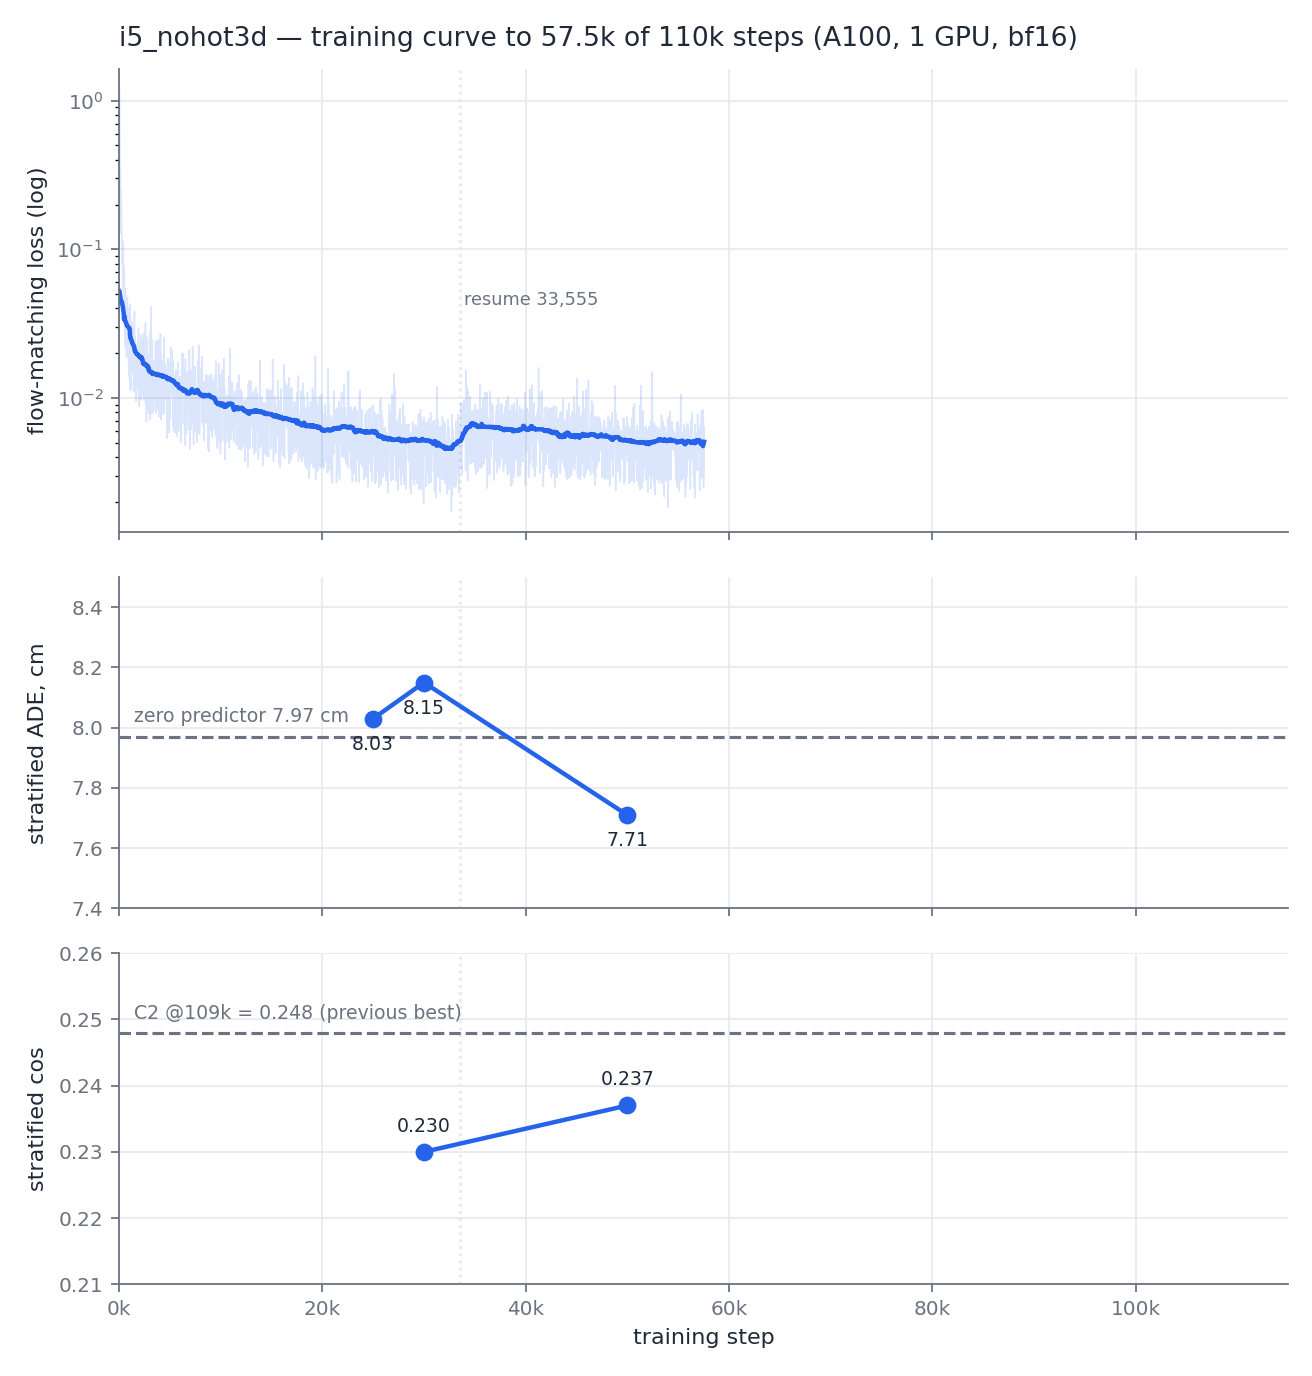
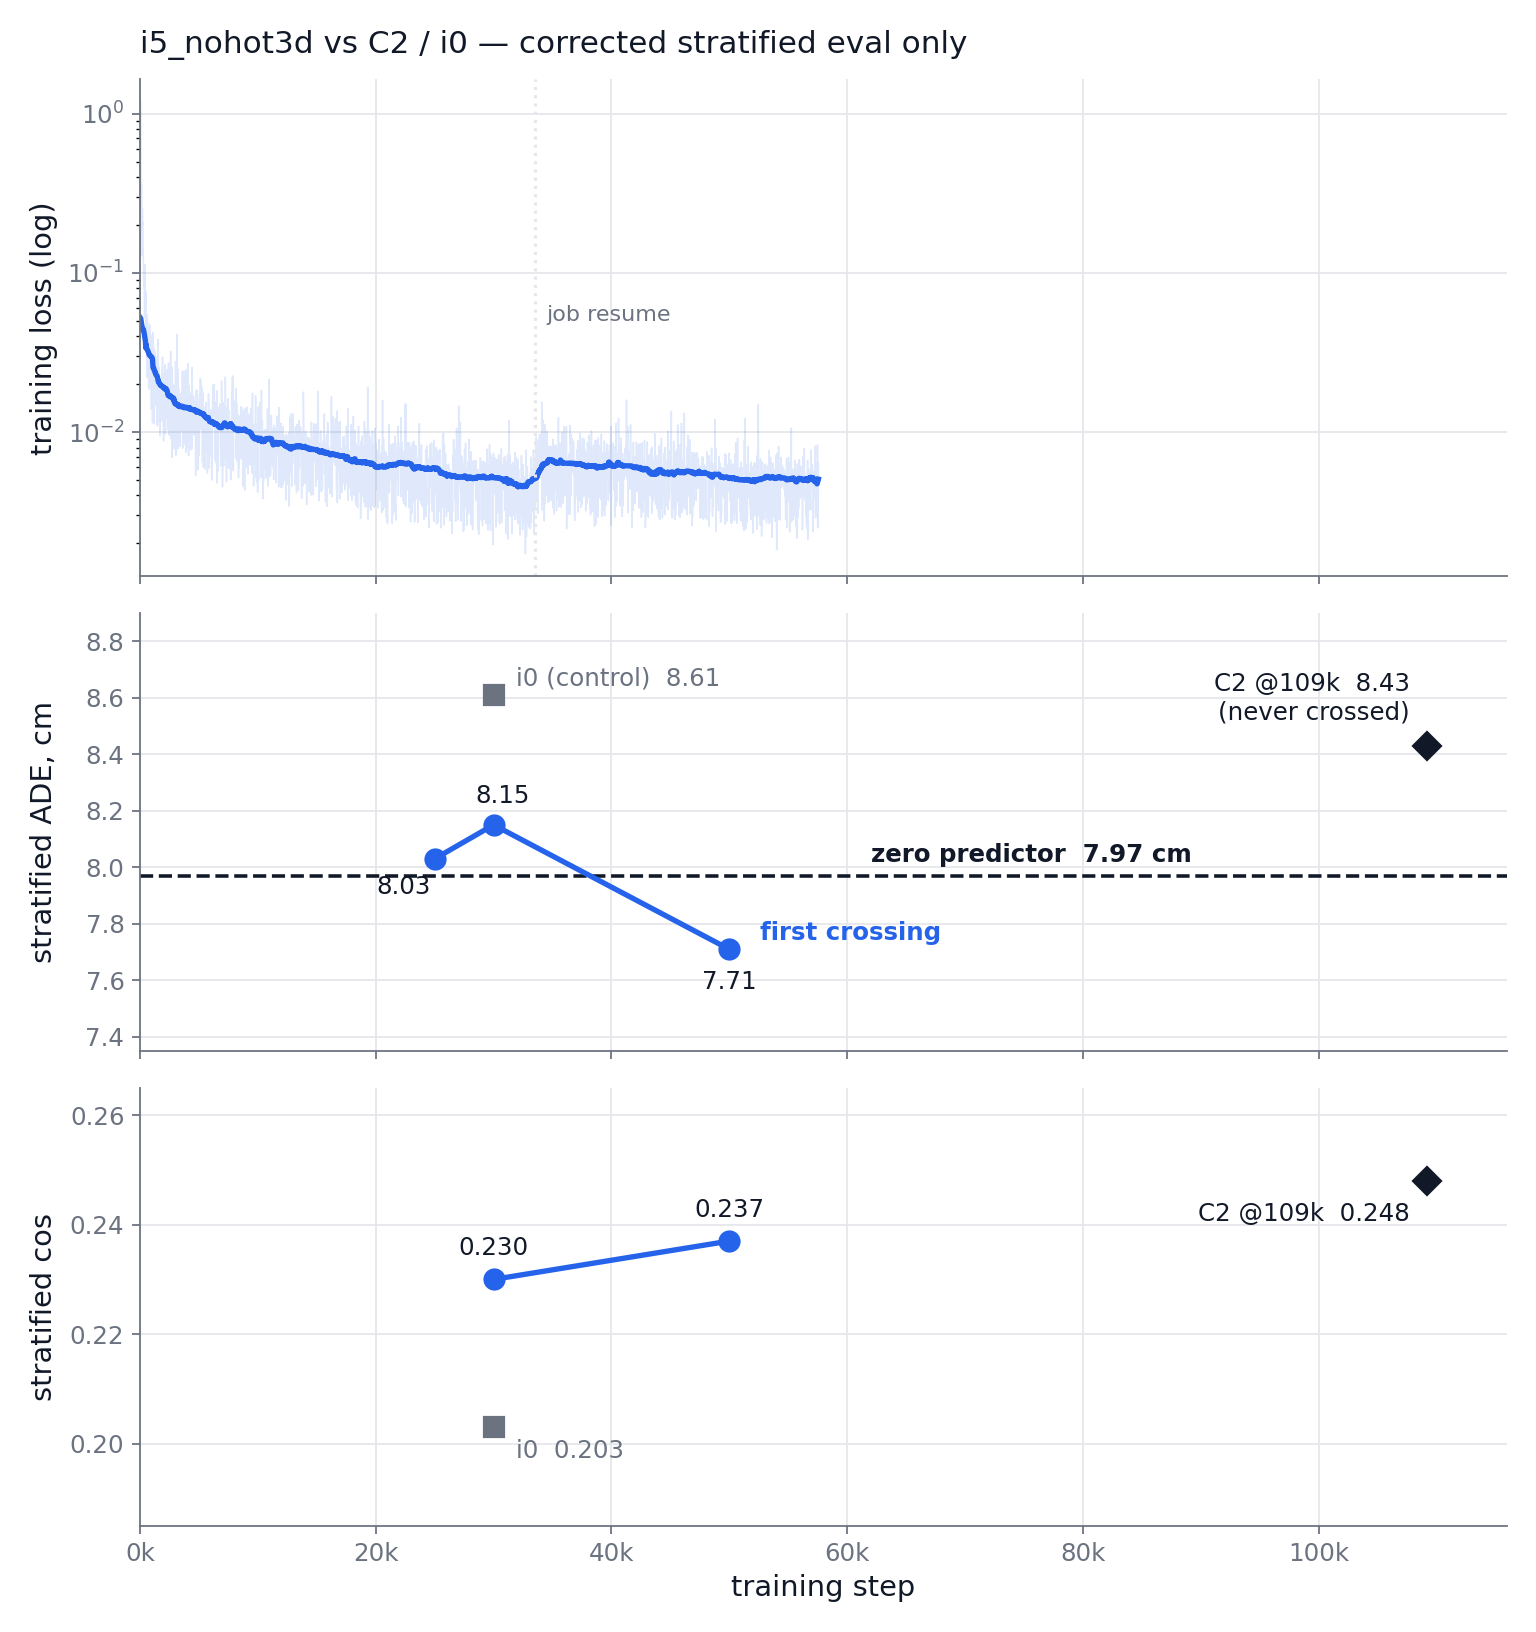
3D-WAM deck #9: full training-config slide, C2-vs-i5 rollout gallery, curve with C2/i0 references, bigger table fonts, chain + GR-1 closed-loop diagrams on the actions slide

diff --git a/experiments/3d-wam/decks/2026-08-31-scaling-plan/index.html b/experiments/3d-wam/decks/2026-08-31-scaling-plan/index.html
@@ -14,8 +14,8 @@
 <link rel="stylesheet" href="/experiments/assets/deck.css">
 <script src="/experiments/assets/deck.js" defer></script>
 <style>
-table.num{border-collapse:collapse;font-size:.8em;width:100%}
-table.num th,table.num td{border-bottom:1px solid var(--rule,#8884);padding:.18em .5em;text-align:right}
+table.num{border-collapse:collapse;font-size:.95em;width:100%}
+table.num th,table.num td{border-bottom:1px solid var(--rule,#8884);padding:.3em .55em;text-align:right}
 table.num th:first-child,table.num td:first-child{text-align:left}
 table.num .good{color:#1a7f37;font-weight:600}
 table.num .bad{color:#b3261e;font-weight:600}
@@ -61,6 +61,7 @@ table.num .mute{opacity:.55}
       <ul><li>crossed zero at 50k</li>
           <li>110k lands ~06:00 KST</li></ul></li>
     <li>Cross-embodiment status</li>
+    <li>Rollout gallery: C2 vs i5</li>
   </ol>
   <div class="band">
     <figure><img src="/experiments/3d-wam/decks/2026-08-31-evaluation/assets/i5_taco.gif" alt="i5 rollout on taco">
@@ -99,6 +100,7 @@ table.num .mute{opacity:.55}
     <li class="on">Cross-embodiment status
       <ul><li>object + hand motion transfer</li>
           <li>hand detail noised → p5</li></ul></li>
+    <li>Rollout gallery: C2 vs i5</li>
   </ol>
   <div class="band">
     <figure><img src="/experiments/3d-wam/decks/2026-08-31-evaluation/assets/xemb_human.gif" alt="C2 human hand rollout">
@@ -148,15 +150,6 @@ table.num .mute{opacity:.55}
     </figure>
     <figure>
       <table class="num">
-        <tr><th>training config</th><th>i5 (120M)</th><th>p4/p5 (320M)</th></tr>
-        <tr><td>batch × accum</td><td>16 × 2</td><td><b>64 × 1</b></td></tr>
-        <tr><td>lr / warmup</td><td>3e-4 / 300</td><td>3e-4 / 2,000</td></tr>
-        <tr><td>steps = epochs</td><td>110k = 6.1</td><td><b>45k = 5.0</b></td></tr>
-      </table>
-      <figcaption>one recipe change per arm; lr width- and batch-scaled from the measured anchor</figcaption>
-    </figure>
-    <figure>
-      <table class="num">
         <tr><th>p1 lever (0.95 s/step today)</th><th>gain</th></tr>
         <tr><td>batch 32×1 — same eff. 32, identical gradient</td><td>1.3–1.7×</td></tr>
         <tr><td>torch.compile + fused AdamW + sync fix</td><td>1.4–2×</td></tr>
@@ -173,6 +166,66 @@ table.num .mute{opacity:.55}
       <figcaption>sinfo 08-31 — dual-target h100,sjw_alinlab; evals pre-queued on debug with --begin</figcaption>
     </figure>
   </div>
+</section>
+
+<!-- SECTION: method (2) · full training config -->
+<section class="slide s-method">
+  <h2>Method (2): Training config — every knob</h2>
+  <p class="thesis">Every knob on one slide; one change per arm.</p>
+  <ul>
+    <li>LR width- and batch-scaled</li>
+    <li>Warmup 2k for 320M</li>
+    <li>Same optimizer family throughout</li>
+  </ul>
+  <div class="band">
+    <figure>
+      <table class="num">
+        <tr><th>model</th><th>i5 / i0 (now)</th><th>p4 / p5</th></tr>
+        <tr><td>params</td><td>119.95M</td><td><b>~320M</b></td></tr>
+        <tr><td>d × layers</td><td>768 × 12</td><td><b>1024 × 18</b></td></tr>
+        <tr><td>heads × head-dim</td><td>12 × 64</td><td>16 × 64</td></tr>
+        <tr><td>MLP dim</td><td>3072</td><td>4096</td></tr>
+        <tr><td>tokens / sample</td><td>1,280 + history 2</td><td>same</td></tr>
+      </table>
+      <figcaption>architecture otherwise frozen: k=8 patches, full attention, v-param, time-RoPE, no aux losses</figcaption>
+    </figure>
+    <figure>
+      <table class="num">
+        <tr><th>optimization</th><th>i5 (120M)</th><th>p2</th><th>p4 / p5 (320M)</th></tr>
+        <tr><td>effective batch (micro × accum)</td><td>32 (16×2)</td><td>64 (64×1)</td><td><b>64 (64×1)</b></td></tr>
+        <tr><td>peak LR</td><td>3e-4</td><td>4.5e-4</td><td><b>3e-4</b></td></tr>
+        <tr><td>warmup steps</td><td>300</td><td>150</td><td><b>2,000</b></td></tr>
+        <tr><td>target steps = epochs</td><td>110k = 6.1</td><td>55k = 6.1</td><td><b>45k = 5.0</b></td></tr>
+        <tr><td>wd · EMA · clip</td><td colspan="3">0.05 · 0.999 · 1.0 (all arms)</td></tr>
+        <tr><td>schedule · precision</td><td colspan="3">cosine → 0.1 · bf16 autocast (+ compile on p-arms)</td></tr>
+      </table>
+      <figcaption>AdamW(0.9, 0.95) throughout; p4/p5 LR = 3e-4 anchor × (768/1024) width × √2 batch ≈ 3.2e-4, rounded down</figcaption>
+    </figure>
+  </div>
+  <p class="footnote">configs: code/configs/{i0_ctl,p1_throughput,p2_b64,p4_320m,p5_sharpa10}.yaml · data: 577,948 no-hot3d chunks (p1/p2 keep all six datasets = i0 basis)</p>
+</section>
+
+<!-- SECTION: results (3) · rollout gallery C2 vs i5 -->
+<section class="slide s-results">
+  <h2>Results</h2>
+  <ol class="agenda">
+    <li>Current best: i5 (hot3d excluded)</li>
+    <li>Cross-embodiment status</li>
+    <li class="on">Rollout gallery: C2 vs i5
+      <ul><li>same datasets, side by side</li>
+          <li>110k renders land 08:00</li></ul></li>
+  </ol>
+  <div class="band">
+    <figure><img src="/experiments/3d-wam/decks/2026-08-31-evaluation/assets/c2_taco.gif" alt="C2 109k rollout on taco">
+      <figcaption>C2 @109k · taco</figcaption></figure>
+    <figure><img src="/experiments/3d-wam/decks/2026-08-31-evaluation/assets/i5_taco.gif" alt="i5 20k rollout on taco">
+      <figcaption>i5 @20k · taco — freshest render; refreshes to 110k at 08:00</figcaption></figure>
+    <figure><img src="/experiments/3d-wam/decks/2026-08-31-evaluation/assets/c2_oakink2.gif" alt="C2 109k rollout on oakink2">
+      <figcaption>C2 @109k · oakink2</figcaption></figure>
+    <figure><img src="/experiments/3d-wam/decks/2026-08-31-evaluation/assets/i5_oakink2.gif" alt="i5 20k rollout on oakink2">
+      <figcaption>i5 @20k · oakink2</figcaption></figure>
+  </div>
+  <p class="footnote">arctic + dexycb pairs in the appendix · render job 147280 (--begin 06:50) refreshes all clips at i5@110k before the meeting</p>
 </section>
 
 <!-- SECTION: discussion-actions -->
@@ -192,11 +245,85 @@ table.num .mute{opacity:.55}
     <li>100k/110k evals + 5× multi-chunk rollouts, teacher-forced & autoregressive (debug, --begin 04:00/06:45 · by 08:30)</li>
     <li>Pair-clip eye-verification — standing since deck #8 (owner)</li>
   </ol>
+  <div class="band">
+    <figure>
+      <svg viewBox="0 0 460 190" role="img" aria-label="Tonight's job chain" style="width:100%;height:auto">
+        <defs><marker id="ar" viewBox="0 0 8 8" refX="7" refY="4" markerWidth="7" markerHeight="7" orient="auto"><path d="M0 0 L8 4 L0 8 z" fill="var(--mut,#595959)"/></marker></defs>
+        <g font-family="inherit" font-size="12" fill="var(--txt,#000)">
+          <rect x="6" y="10" width="118" height="64" rx="6" fill="var(--panel,#f5f7fa)" stroke="var(--line,#ccd)"/>
+          <text x="65" y="28" text-anchor="middle" font-weight="700">tonight 19:30</text>
+          <text x="65" y="45" text-anchor="middle">p1 5k · p2 5k</text>
+          <text x="65" y="61" text-anchor="middle">p4 smoke 20′</text>
+          <rect x="176" y="10" width="128" height="64" rx="6" fill="var(--acc-bg,#e8f1fb)" stroke="var(--acc-line,#9cc)"/>
+          <text x="240" y="28" text-anchor="middle" font-weight="700" fill="var(--acc,#0070C0)">overnight · h100</text>
+          <text x="240" y="45" text-anchor="middle">p4 320M · 45k</text>
+          <text x="240" y="61" text-anchor="middle">p5 +10 % Sharpa</text>
+          <rect x="352" y="10" width="102" height="64" rx="6" fill="var(--panel,#f5f7fa)" stroke="var(--line,#ccd)"/>
+          <text x="403" y="28" text-anchor="middle" font-weight="700">09:00</text>
+          <text x="403" y="45" text-anchor="middle">meeting:</text>
+          <text x="403" y="61" text-anchor="middle">all results in</text>
+          <line x1="124" y1="42" x2="174" y2="42" stroke="var(--mut,#595959)" stroke-width="1.6" marker-end="url(#ar)"/>
+          <text x="149" y="34" text-anchor="middle" font-size="10" fill="var(--mut,#595959)">afterok</text>
+          <line x1="304" y1="42" x2="350" y2="42" stroke="var(--mut,#595959)" stroke-width="1.6" marker-end="url(#ar)"/>
+          <rect x="6" y="106" width="200" height="64" rx="6" fill="var(--panel,#f5f7fa)" stroke="var(--line,#ccd)"/>
+          <text x="106" y="124" text-anchor="middle" font-weight="700">self-firing (--begin) · debug</text>
+          <text x="106" y="141" text-anchor="middle">04:00 ieval i5@100k</text>
+          <text x="106" y="157" text-anchor="middle">06:45 110k harvest · 06:50 renders</text>
+          <rect x="258" y="106" width="196" height="64" rx="6" fill="var(--panel,#f5f7fa)" stroke="var(--line,#ccd)"/>
+          <text x="356" y="124" text-anchor="middle" font-weight="700">running since last night</text>
+          <text x="356" y="141" text-anchor="middle">i5 → 110k ~06:00</text>
+          <text x="356" y="157" text-anchor="middle">i0 → 110k ~05:50</text>
+          <line x1="206" y1="138" x2="256" y2="138" stroke="var(--mut,#595959)" stroke-width="1.6" marker-end="url(#ar)"/>
+        </g>
+      </svg>
+      <figcaption>tonight's chain — jobs 147273–147280: SLURM dependencies and --begin timers only, no watchers</figcaption>
+    </figure>
+    <figure>
+      <svg viewBox="0 0 460 190" role="img" aria-label="GR-1 closed loop pipeline" style="width:100%;height:auto">
+        <defs><marker id="ar2" viewBox="0 0 8 8" refX="7" refY="4" markerWidth="7" markerHeight="7" orient="auto"><path d="M0 0 L8 4 L0 8 z" fill="var(--mut,#595959)"/></marker></defs>
+        <g font-family="inherit" font-size="12" fill="var(--txt,#000)">
+          <text x="230" y="20" text-anchor="middle" font-weight="700" fill="var(--acc,#0070C0)">next phase · closed loop on GR-1 tabletop (zero-shot, unseen task)</text>
+          <rect x="6" y="38" width="104" height="56" rx="6" fill="var(--panel,#f5f7fa)" stroke="var(--line,#ccd)"/>
+          <text x="58" y="58" text-anchor="middle">sim state:</text>
+          <text x="58" y="74" text-anchor="middle">≤2 objects + hand</text>
+          <text x="58" y="88" text-anchor="middle">512 pts each</text>
+          <rect x="142" y="38" width="90" height="56" rx="6" fill="var(--acc-bg,#e8f1fb)" stroke="var(--acc-line,#9cc)"/>
+          <text x="187" y="62" text-anchor="middle" font-weight="700">320M DiT</text>
+          <text x="187" y="80" text-anchor="middle">+ instruction</text>
+          <rect x="264" y="38" width="84" height="56" rx="6" fill="var(--panel,#f5f7fa)" stroke="var(--line,#ccd)"/>
+          <text x="306" y="62" text-anchor="middle">hand point</text>
+          <text x="306" y="80" text-anchor="middle">flow (1 s)</text>
+          <rect x="380" y="38" width="74" height="56" rx="6" fill="var(--panel,#f5f7fa)" stroke="var(--line,#ccd)"/>
+          <text x="417" y="56" text-anchor="middle">Procrustes</text>
+          <text x="417" y="72" text-anchor="middle">+ IK →</text>
+          <text x="417" y="88" text-anchor="middle">joints</text>
+          <line x1="110" y1="66" x2="140" y2="66" stroke="var(--mut,#595959)" stroke-width="1.6" marker-end="url(#ar2)"/>
+          <line x1="232" y1="66" x2="262" y2="66" stroke="var(--mut,#595959)" stroke-width="1.6" marker-end="url(#ar2)"/>
+          <line x1="348" y1="66" x2="378" y2="66" stroke="var(--mut,#595959)" stroke-width="1.6" marker-end="url(#ar2)"/>
+          <rect x="142" y="122" width="212" height="48" rx="6" fill="var(--panel,#f5f7fa)" stroke="var(--line,#ccd)"/>
+          <text x="248" y="142" text-anchor="middle" font-weight="700">Isaac · GR-1 tabletop steps 1 s</text>
+          <text x="248" y="158" text-anchor="middle">re-observe → next chunk</text>
+          <path d="M 417 94 L 417 146 L 356 146" fill="none" stroke="var(--mut,#595959)" stroke-width="1.6" marker-end="url(#ar2)"/>
+          <path d="M 140 146 L 58 146 L 58 96" fill="none" stroke="var(--mut,#595959)" stroke-width="1.6" marker-end="url(#ar2)"/>
+          <text x="20" y="128" font-size="10" fill="var(--mut,#595959)">closed loop</text>
+        </g>
+      </svg>
+      <figcaption>the decode IS the retargeter — same pipeline, any hand; open decision: condition on GR-1's own points vs cross-decode</figcaption>
+    </figure>
+    <figure><img src="/experiments/3d-wam/decks/2026-08-31-evaluation/assets/xemb_sharpa.gif" alt="Sharpa zero-shot transfer clip">
+      <figcaption>what p5 sharpens — Sharpa zero-shot today: motion right, finger detail noisy</figcaption></figure>
+  </div>
 </section>
 
 <!-- SECTION: appendix -->
 <section class="slide s-appendix">
-  <h2>Appendix · tonight's schedule · p4 config · corrections · cut list</h2>
+  <h2>Appendix · remaining rollout pairs · tonight's schedule · corrections · cut list</h2>
+  <div class="band">
+    <figure><img src="/experiments/3d-wam/decks/2026-08-31-evaluation/assets/c2_arctic.gif" alt="C2 arctic"><figcaption>C2 @109k · arctic</figcaption></figure>
+    <figure><img src="/experiments/3d-wam/decks/2026-08-31-evaluation/assets/i5_arctic.gif" alt="i5 arctic"><figcaption>i5 @20k · arctic</figcaption></figure>
+    <figure><img src="/experiments/3d-wam/decks/2026-08-31-evaluation/assets/c2_dexycb.gif" alt="C2 dexycb"><figcaption>C2 @109k · dexycb</figcaption></figure>
+    <figure><img src="/experiments/3d-wam/decks/2026-08-31-evaluation/assets/i5_dexycb.gif" alt="i5 dexycb"><figcaption>i5 @20k · dexycb</figcaption></figure>
+  </div>
   <div class="cols">
     <div>
       <dl class="kv">
